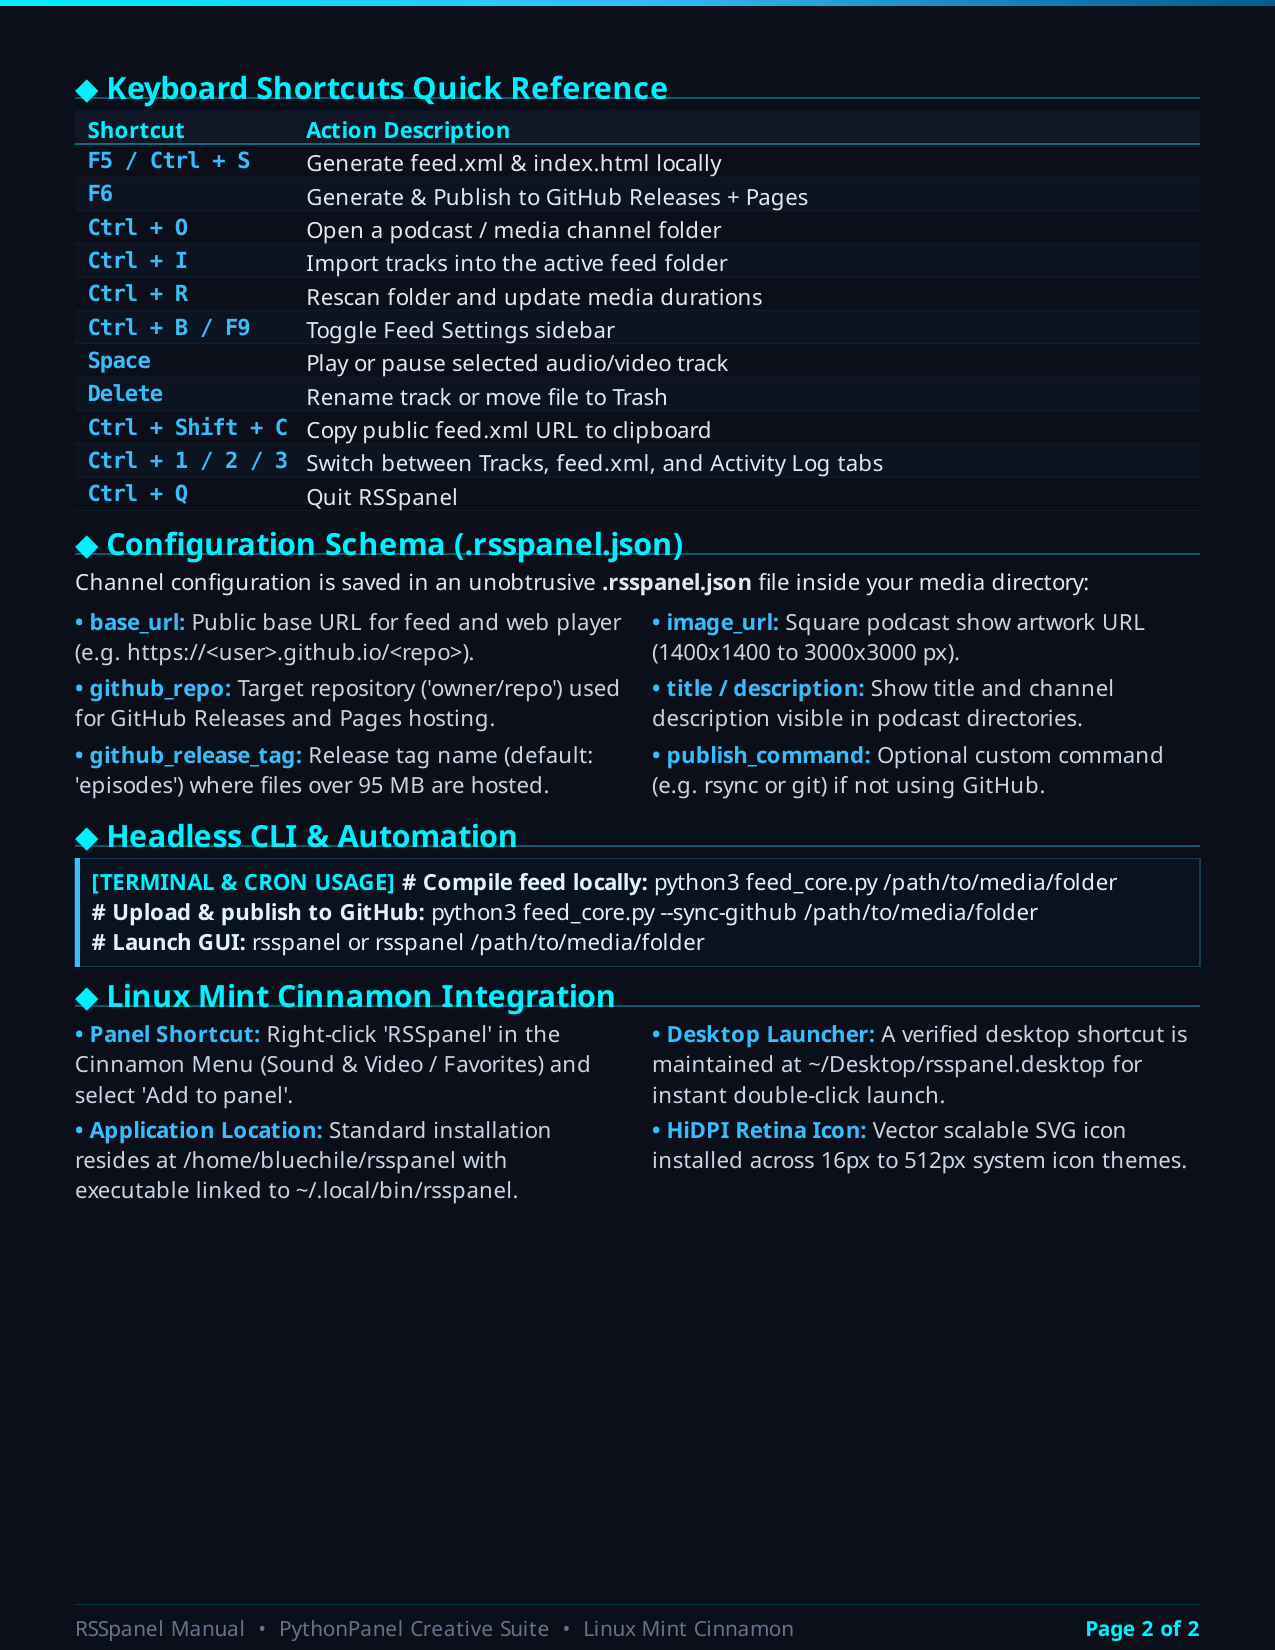
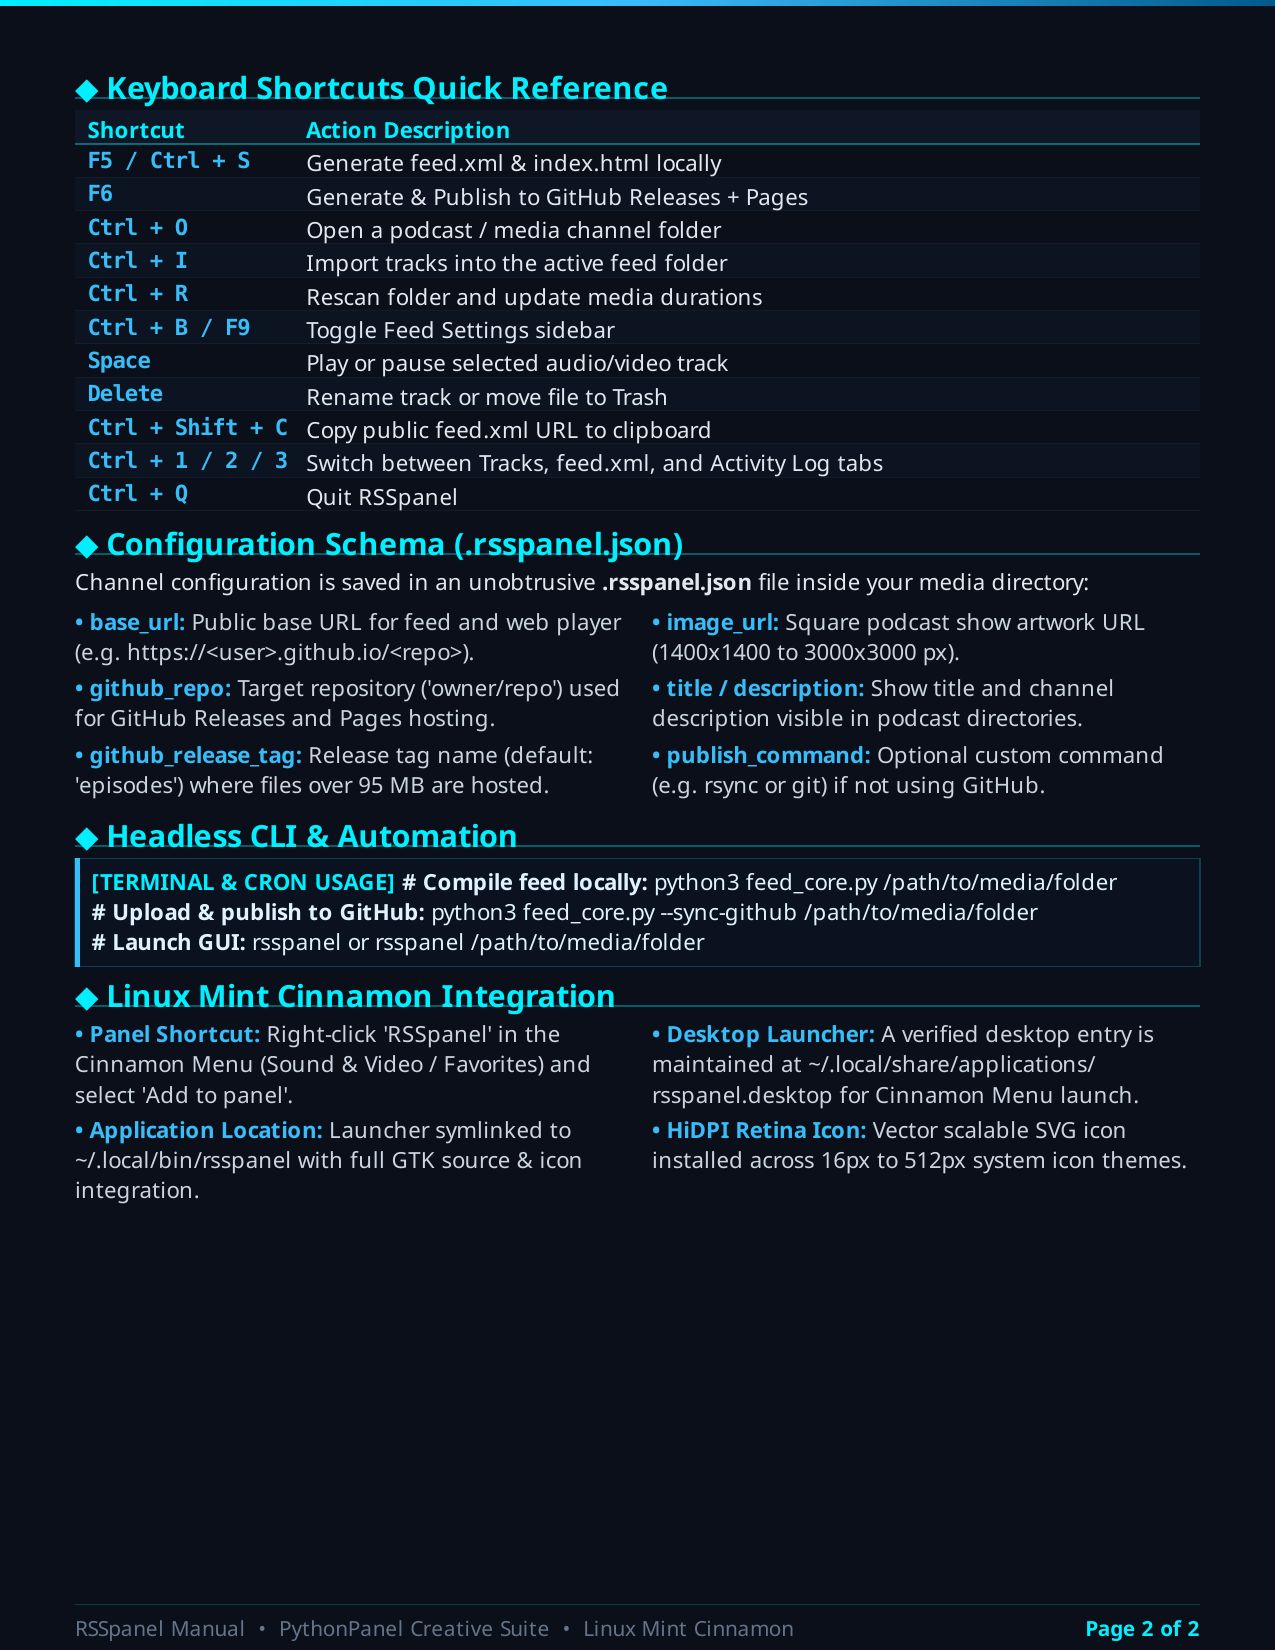
Standardize RSSpanel README, launcher template, and user manual

Changed region(s): [[0.0612, 0.68, 0.4588, 0.7418], [0.52, 0.6182, 0.9176, 0.68]]

diff --git a/docs/generate_manual.py b/docs/generate_manual.py
@@ -403,10 +403,10 @@ def build_compact_manual(output_pdf, icon_svg):
     builder.add_2col_grid(
         [
             ("Panel Shortcut", "Right-click 'RSSpanel' in the Cinnamon Menu (Sound &amp; Video / Favorites) and select 'Add to panel'."),
-            ("Application Location", "Standard installation resides at /home/bluechile/rsspanel with executable linked to ~/.local/bin/rsspanel.")
+            ("Application Location", "Launcher symlinked to ~/.local/bin/rsspanel with full GTK source &amp; icon integration.")
         ],
         [
-            ("Desktop Launcher", "A verified desktop shortcut is maintained at ~/Desktop/rsspanel.desktop for instant double-click launch."),
+            ("Desktop Launcher", "A verified desktop entry is maintained at ~/.local/share/applications/rsspanel.desktop for Cinnamon Menu launch."),
             ("HiDPI Retina Icon", "Vector scalable SVG icon installed across 16px to 512px system icon themes.")
         ]
     )
@@ -415,6 +415,7 @@ def build_compact_manual(output_pdf, icon_svg):
     print(f"Generated compact manual: {output_pdf}")
 
 if __name__ == "__main__":
-    out_file = sys.argv[1] if len(sys.argv) > 1 else "/home/bluechile/Desktop/RSSpanel User Manual.pdf"
-    icon = sys.argv[2] if len(sys.argv) > 2 else "/home/bluechile/Videos/Daily Dean Blues Instrumentals/rsspanel.svg"
+    base_dir = os.path.dirname(os.path.dirname(os.path.abspath(__file__)))
+    out_file = sys.argv[1] if len(sys.argv) > 1 else os.path.join(base_dir, "RSSpanel User Manual.pdf")
+    icon = sys.argv[2] if len(sys.argv) > 2 else os.path.join(base_dir, "rsspanel.svg")
     build_compact_manual(out_file, icon)

diff --git a/README.md b/README.md
@@ -28,7 +28,7 @@ A fast, modern **Podcast & RSS 2.0 Feed Studio** with **Live Folder Watching**, 
 
 ---
 
-## 📖 User Manual & Quick Reference
+## User Manual & Quick Reference
 
 A complete 2-page visual reference manual crafted in the **PythonPanel dark-neon aesthetic** (`#0b0f19` / `#00f0ff`), covering core architecture, one-click GitHub publishing workflows, toolbar controls, workspace panels, keyboard shortcuts, `.rsspanel.json` schema, headless CLI automation, and Linux Mint Cinnamon desktop integration.
 
@@ -42,7 +42,7 @@ A complete 2-page visual reference manual crafted in the **PythonPanel dark-neon
 </p>
 
 <p align="center">
-  <b><a href="RSSpanel%20User%20Manual.pdf">📄 Open RSSpanel User Manual (PDF)</a></b>
+  <b><a href="RSSpanel%20User%20Manual.pdf">Open RSSpanel User Manual (PDF)</a></b>
 </p>
 
 ---
@@ -50,6 +50,8 @@ A complete 2-page visual reference manual crafted in the **PythonPanel dark-neon
 ## Installation
 
 ```bash
+git clone https://github.com/kyledeanml/RSSpanel.git
+cd RSSpanel
 ./install.sh
 ```
 
